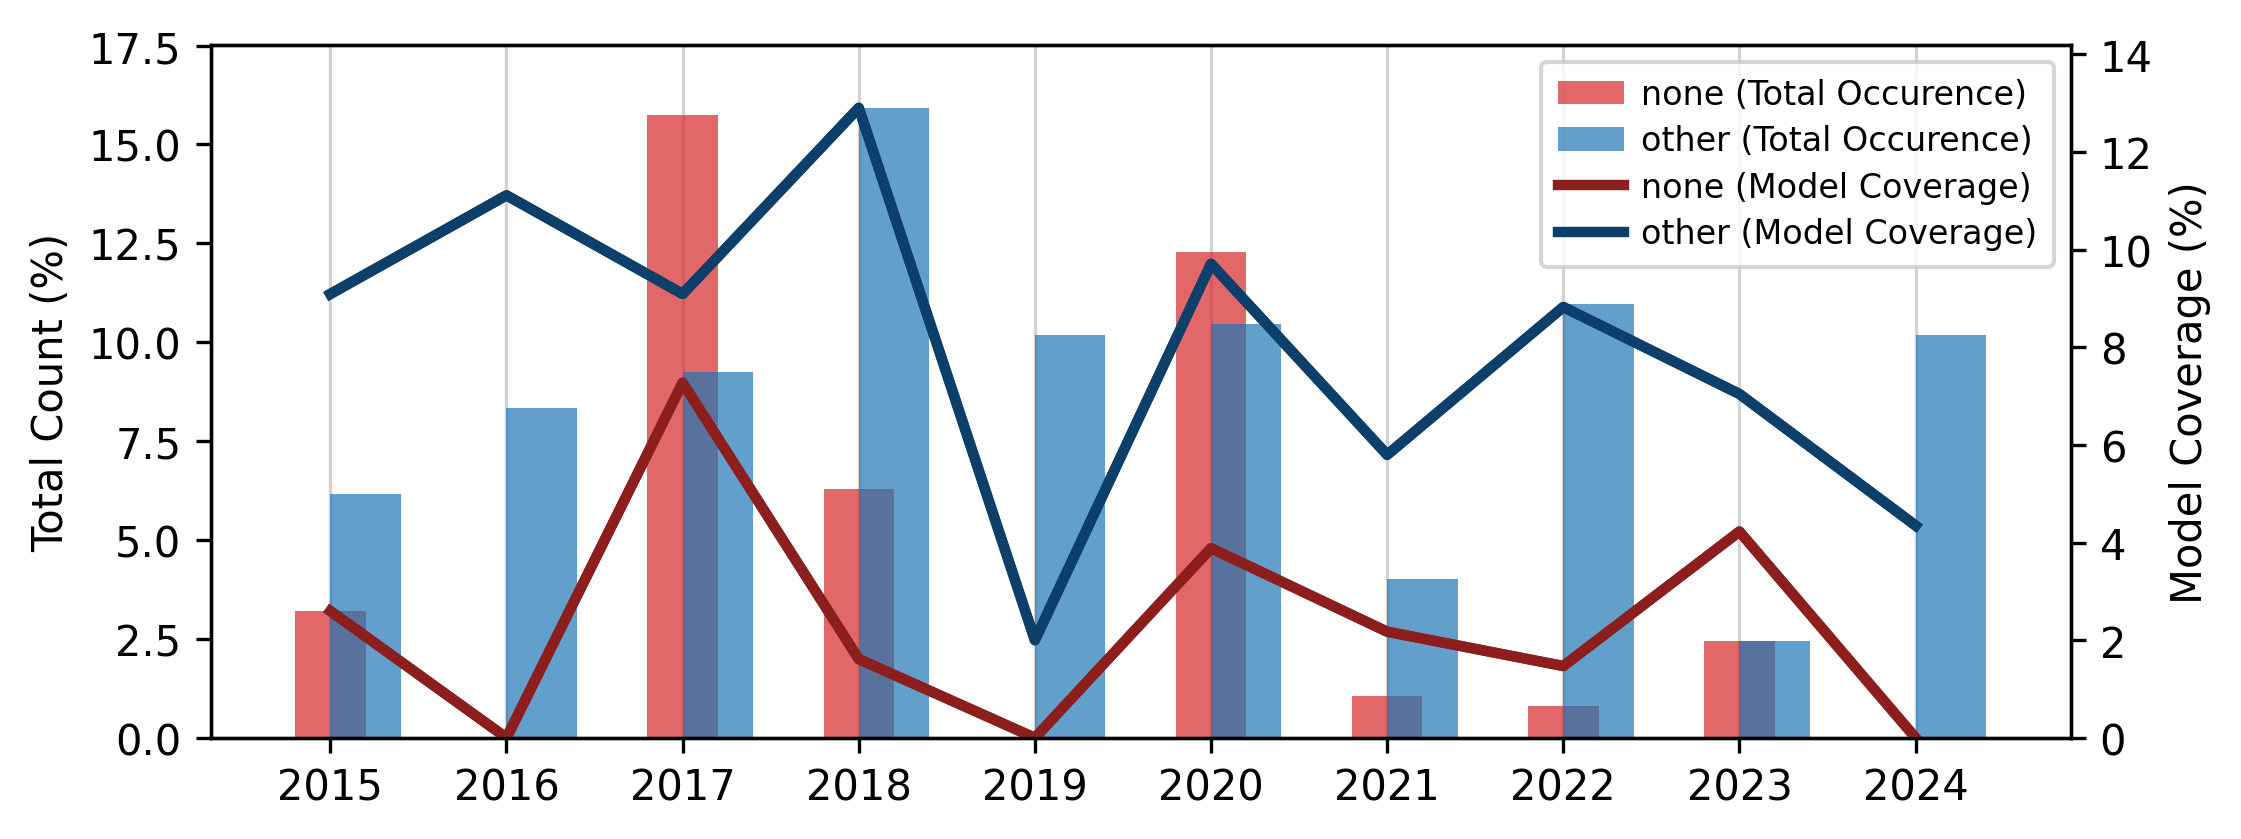
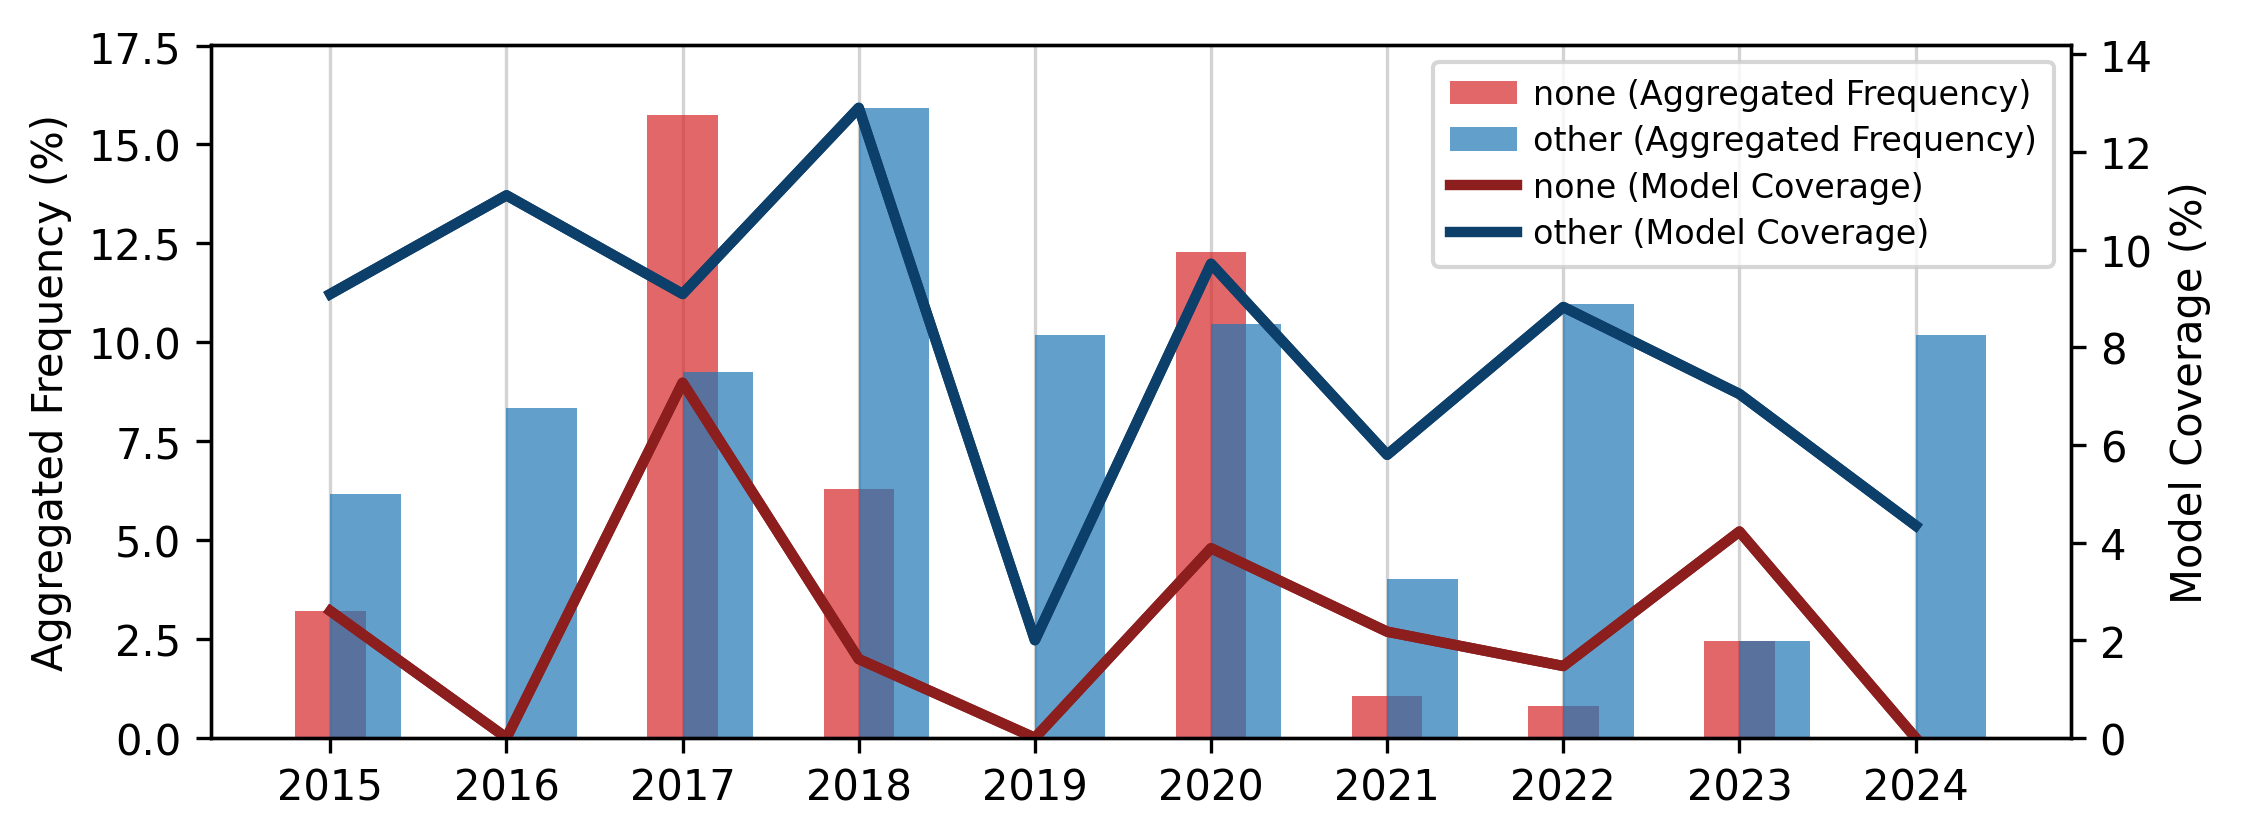
Adjustments for paper.

Changed region(s): [[0.6247, 0.062, 0.9058, 0.3409], [0.0, 0.2479, 0.0312, 0.8057], [0.0, 0.1549, 0.0312, 0.2169]]

diff --git a/src/step3_output.py b/src/step3_output.py
@@ -67,18 +67,18 @@ def plot_pareto_combined(dataset, output_dir: str, coverage_limit: float = None)
         # Bar plot for occurrence-wise frequency
         bar_width = 0.4
         ax1.bar(data_occurrence['Stereotype'], data_occurrence['Percentage Frequency'], width=bar_width,
-                label='Total Count', align='center', color='skyblue', zorder=2)
+                label='Aggregated Frequency (AF)', align='center', color='skyblue', zorder=2)
 
         # Bar plot for group-wise frequency (shifted to the right)
         ax1.bar(data_groupwise['Stereotype'], data_groupwise['Percentage Group-wise Frequency'], width=bar_width,
-                label='Model Coverage', align='edge', color='lightgreen', zorder=2)
+                label='Model Coverage (MC)', align='edge', color='lightgreen', zorder=2)
 
         # Calculate medians
         median_occurrence = np.median(data_occurrence['Percentage Frequency'])
         median_groupwise = np.median(data_groupwise['Percentage Group-wise Frequency'])
 
         # Plot horizontal dashed lines for the medians (keep simple labels for the legend)
-        ax1.axhline(median_occurrence, color='blue', linestyle='--', linewidth=2.0, label='Total Count Median', zorder=3)
+        ax1.axhline(median_occurrence, color='blue', linestyle='--', linewidth=2.0, label='Aggregated Frequency Median', zorder=3)
         ax1.axhline(median_groupwise, color='green', linestyle='--', linewidth=2.0, label='Model Coverage Median', zorder=3)
 
         # Annotate the medians at the rightmost end of the lines
@@ -91,8 +91,8 @@ def plot_pareto_combined(dataset, output_dir: str, coverage_limit: float = None)
                      textcoords='offset points', color='green', fontsize=10, fontweight='bold', zorder=5)
 
         # Set labels and title
-        ax1.set_ylabel('Total Count (%)', fontsize=12)
-        # Title ommited for the paper
+        ax1.set_ylabel('Aggregated Frequency (%)', fontsize=12)
+        # Title omitted for the paper
         # ax1.set_title(title, fontweight='bold', fontsize=14)
 
         # Rotate the labels by 90 degrees for better readability
@@ -102,7 +102,7 @@ def plot_pareto_combined(dataset, output_dir: str, coverage_limit: float = None)
         ax2 = ax1.twinx()  # Create a second y-axis
 
         ax2.plot(range(len(data_occurrence)), data_occurrence['Cumulative Percentage'], color='blue', marker='o',
-                 label='Cumulative Total Count', linestyle='-', linewidth=2, zorder=2)
+                 label='Cumulative Aggregated Frequency', linestyle='-', linewidth=2, zorder=2)
 
         # Line plot for group-wise cumulative percentage
         ax2.plot(range(len(data_groupwise)), data_groupwise['Group-wise Cumulative Percentage'], color='green',
@@ -204,9 +204,9 @@ def plot_pareto_combined(dataset, output_dir: str, coverage_limit: float = None)
 
         # Create proxy artists for the symbols
         legend_elements = [Line2D([0], [0], marker='+', color='black', linestyle='None', markersize=7,
-                                  label='Stereotype ≥ median (Total Count)'),
+                                  label='Stereotype ≥ median (AF)'),
                            Line2D([0], [0], marker='$*$', color='black', linestyle='None', markersize=7,
-                                  label='Stereotype ≥ median (Model Coverage)')]
+                                  label='Stereotype ≥ median (MC)')]
 
         # Add these proxies to the existing legend
         ax2.legend(handles=combined_handles + legend_elements,  # Combine previous handles with new ones
@@ -225,11 +225,11 @@ def plot_pareto_combined(dataset, output_dir: str, coverage_limit: float = None)
     # Now generate Pareto charts for class clean and relation clean datasets
     create_pareto_chart(pd.DataFrame(dataset.class_statistics_clean['rank_frequency_distribution']),
                         pd.DataFrame(dataset.class_statistics_clean['rank_groupwise_frequency_distribution']),
-                        'Class Stereotypes: Total Count and Model Coverage Analysis', class_clean_out, coverage_limit)
+                        'Class Stereotypes: Aggregated Frequency and Model Coverage Analysis', class_clean_out, coverage_limit)
 
     create_pareto_chart(pd.DataFrame(dataset.relation_statistics_clean['rank_frequency_distribution']),
                         pd.DataFrame(dataset.relation_statistics_clean['rank_groupwise_frequency_distribution']),
-                        'Relation Stereotypes: Total Count and Model Coverage Analysis', relation_clean_out, coverage_limit)
+                        'Relation Stereotypes: Aggregated Frequency and Model Coverage Analysis', relation_clean_out, coverage_limit)
 
 
 def execute_non_ontouml_analysis(dataset, out_dir_path):
@@ -306,13 +306,13 @@ def generate_non_ontouml_combined_visualization(df_occurrence, df_modelwise, out
 
     # Barplot for occurrence-wise frequencies ('none' and 'other') with bars side by side
     ax1.bar(df_occurrence['year'], df_occurrence['none'], color=bar_colors['none'], alpha=0.7,
-            label='none (Total Occurence)', width=0.4, align='center')
+            label='none (Aggregated Frequency)', width=0.4, align='center')
     ax1.bar(df_occurrence['year'], df_occurrence['other'], color=bar_colors['other'], alpha=0.7,
-            label='other (Total Occurence)', width=0.4, align='edge')
+            label='other (Aggregated Frequency)', width=0.4, align='edge')
 
     # Set labels for the first y-axis (occurrence-wise)
     # ax1.set_xlabel('Year')
-    ax1.set_ylabel('Total Count (%)', color='black')
+    ax1.set_ylabel('Aggregated Frequency (%)', color='black')
     ax1.tick_params(axis='y', labelcolor='black')
 
     # Updated code to prevent y-lim warnings for occurrence-wise

diff --git a/src/Dataset.py b/src/Dataset.py
@@ -50,7 +50,7 @@ class Dataset():
         df = pd.DataFrame(data, columns=["model", "year", "total_class_number", "total_relation_number"])
 
         # Save to CSV using the common utility function
-        filepath = os.path.join(output_dir, f'{self.name}basic_data.csv')
+        filepath = os.path.join(output_dir, f'{self.name}_basic_data.csv')
         save_to_csv(df, filepath, f"General data for dataset '{self.name}' successfully saved to {filepath}.")
 
     def save_dataset_class_data_csv(self, output_dir: str) -> None:
